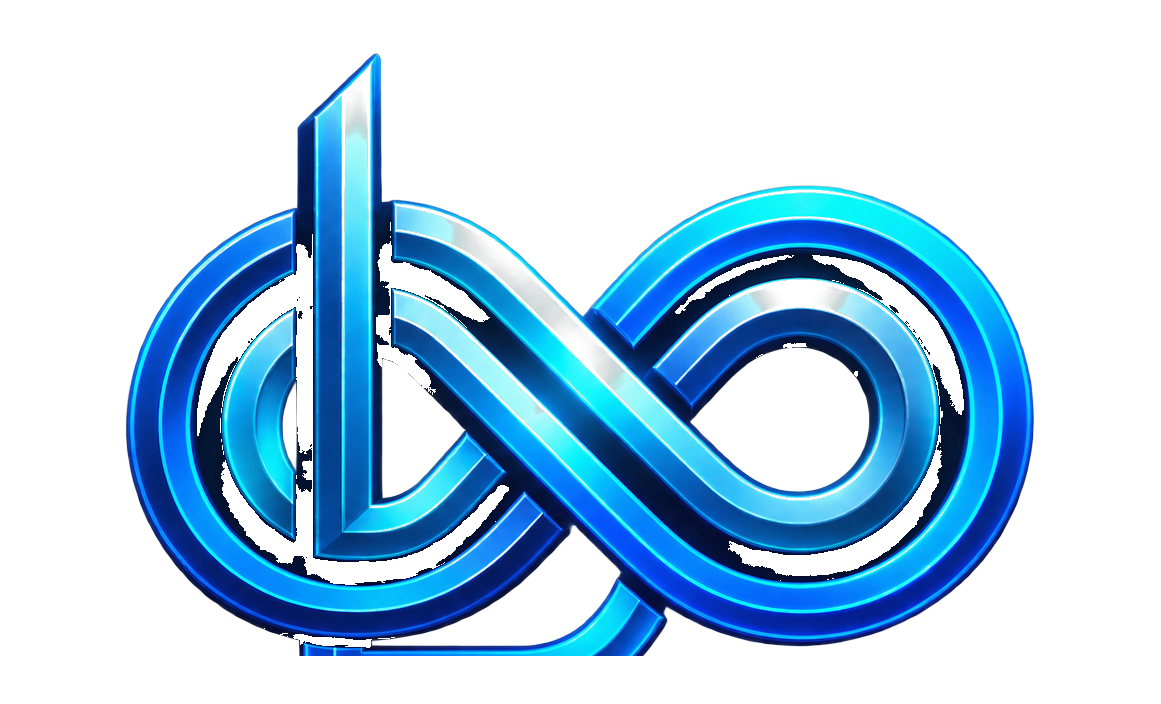
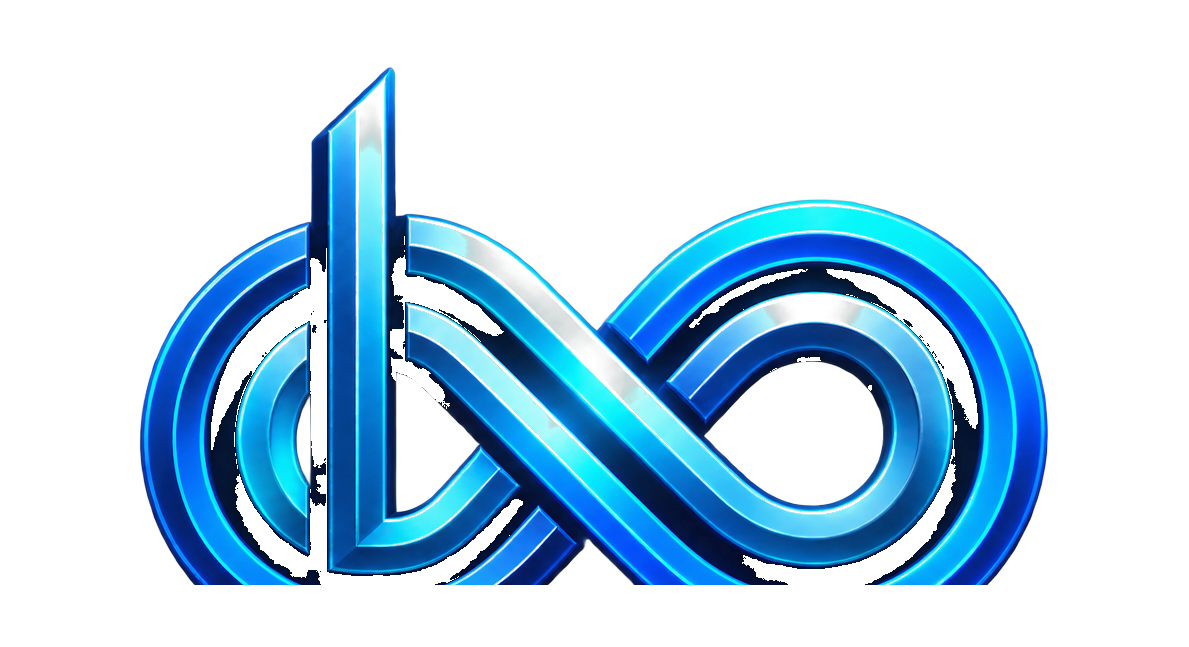
nav: crop auto-detectado del símbolo — incluye la curva inferior completa de la b

diff --git a/components/site-nav.tsx b/components/site-nav.tsx
@@ -31,12 +31,12 @@ export function SiteNav() {
       <div className="mx-auto flex h-16 max-w-6xl items-center justify-between px-4 sm:px-6 lg:px-8">
         <a href="#top" className="group flex items-center gap-2" aria-label="LINKIA - Tu taller, conectado">
           <Image
-            src="/images/linkia-symbol-clean.png?v=4"
+            src="/images/linkia-symbol-clean.png?v=5"
             alt=""
-            width={1161}
-            height={704}
+            width={1189}
+            height={647}
             priority
-            className="h-14 w-auto object-contain transition-transform group-hover:scale-105"
+            className="h-12 w-auto object-contain transition-transform group-hover:scale-105"
           />
           <span className="font-heading text-2xl font-extrabold tracking-tight text-navy dark:text-foreground">
             LINKIA
